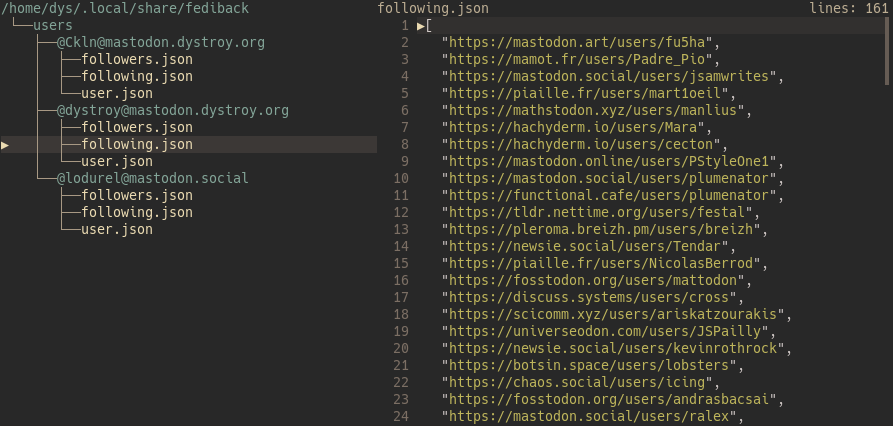
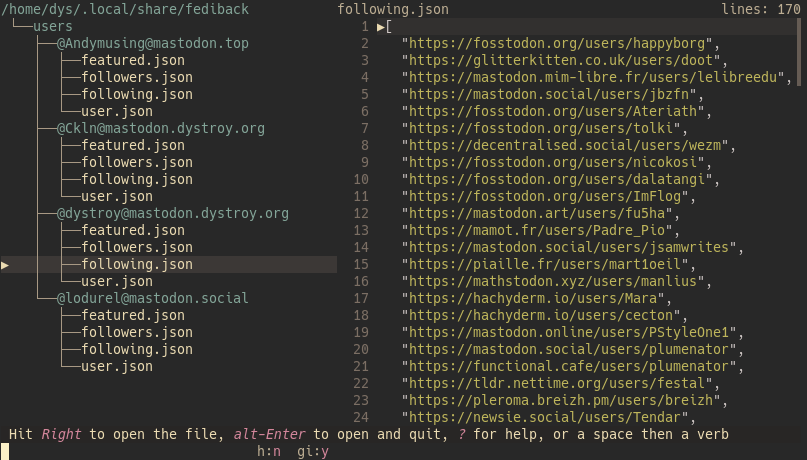
now save featured notes too

Changed region(s): [[0.0, 0.0, 1.0, 1.0], [0.0, 0.0, 0.3717, 0.8239], [0.4337, 0.0915, 0.4647, 0.2746]]

diff --git a/src/db.rs b/src/db.rs
@@ -77,17 +77,24 @@ impl<'s> Db<'s> {
             &user,
         )?;
         if let Some(url) = &user.following {
-            let following = client.get_items(url)?;
+            let following: Vec<String> = client.get_items(url)?;
             self.write(
                 user_dir.join("following.json"),
                 &following,
             )?;
         }
         if let Some(url) = &user.followers {
-            let followers = client.get_items(url)?;
+            let followers: Vec<String> = client.get_items(url)?;
             self.write(
                 user_dir.join("followers.json"),
                 &followers,
+            )?;
+        }
+        if let Some(url) = &user.featured {
+            let featured: Vec<Note> = client.get_items(url)?;
+            self.write(
+                user_dir.join("featured.json"),
+                &featured,
             )?;
         }
         Ok(())

diff --git a/src/client.rs b/src/client.rs
@@ -37,12 +37,19 @@ impl Client {
         Ok(self.requester.get(url).send()?.json()?)
     }
 
-    pub fn get_items<S: Into<String>>(&self, url: S) -> Result<Vec<String>> {
+    pub fn get_items<S, Item>(
+        &self,
+        url: S,
+    ) -> Result<Vec<Item>>
+        where
+            S: Into<String>,
+            Item: DeserializeOwned,
+    {
         let mut url = url.into();
         let mut all = Vec::new();
         let mut queries = 0;
         loop {
-            let mut page: Page = self.get(&url)?;
+            let mut page: Page<Item> = self.get(&url)?;
             queries += 1;
             if let Some(items) = &mut page.ordered_items {
                 all.append(items);

diff --git a/src/note.rs b/src/note.rs
@@ -1,0 +1,17 @@
+use {
+    serde::{Deserialize, Serialize},
+};
+
+#[derive(Debug, Deserialize, Serialize)]
+#[serde(rename_all = "camelCase")]
+pub struct Note {
+    pub id: String,
+    pub in_reply_to: Option<String>,
+    pub summary: Option<String>,
+    pub url: String,
+    pub published: String,
+    pub to: Option<Vec<String>>,
+    pub cc: Option<Vec<String>>,
+    pub conversation: Option<String>,
+    pub content: String,
+}

diff --git a/src/page.rs b/src/page.rs
@@ -4,10 +4,10 @@ use {
 
 #[derive(Debug, Deserialize, Serialize)]
 #[serde(rename_all = "camelCase")]
-pub struct Page {
+pub struct Page<Item> {
     pub id: String,
     pub total_items: usize,
-    pub ordered_items: Option<Vec<String>>,
+    pub ordered_items: Option<Vec<Item>>,
     pub first: Option<String>,
     pub next: Option<String>,
 }

diff --git a/src/user.rs b/src/user.rs
@@ -11,6 +11,7 @@ pub struct User {
     pub name: String,
     pub summary: String,
     pub url: String,
+    pub featured: Option<String>,
     pub following: Option<String>,
     pub followers: Option<String>,
     pub public_key: PublicKey,

diff --git a/src/main.rs b/src/main.rs
@@ -4,6 +4,7 @@ mod client;
 mod conf;
 mod db;
 mod error;
+mod note;
 mod page;
 mod public_key;
 mod skin;
@@ -17,6 +18,7 @@ pub use {
     conf::*,
     db::*,
     error::*,
+    note::*,
     page::*,
     public_key::*,
     user::*,

diff --git a/README.md b/README.md
@@ -22,7 +22,7 @@ cargo install fediback
 
 ## From precompiled binaries
 
-Executables for Windows and Linux are included in the releases published on GitHub: https://github.com/Canop/fediback/releases
+Executables for Windows and Linux are included in [the releases published on GitHub](https://github.com/Canop/fediback/releases).
 
 # Usage
 
@@ -42,15 +42,16 @@ Accounts are fetched in parallel.
 
 This operation can be done manually but there's no harm in having a cron rule if you can.
 
-For each account 3 files are saved on disk: one with core data, the list of followers and the list of users you follow:
+For each account 4 JSON files are saved on disk:
+
+* `user.json` with the core account data
+* `followers.json` with a list of users
+* `following.json` with a list of users too
+* `featured.json` with a list of "pinned" messages
 
 ![tree](doc/tree.png)
 
-The main file contains only some basic info:
-
 ![user.json](doc/user.json.png)
-
-The `following.json` and `followers.json` files contain list of users.
 
 ![following.json](doc/following.json.png)
 
